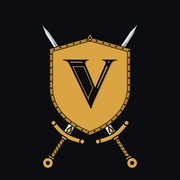
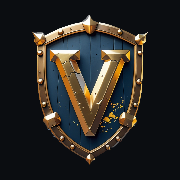
Brand: the painted shield crest replaces the SVG crest
The addon's icon is now Cliff's painted shield (addon #739, art/painted/icon/C2.png).
The site follows it:
- crest.webp (198 x 255) for the header mark and the Home hero, as an <img>
- favicon-32, apple-touch-icon and the SVG favicon from the same picture
- og-image and github-social-preview rebuilt: dusk landscape, crest, wordmark
- press download is now vanguard-crest.png (1024, transparent); the SVG is gone
- hero alt text, social image alt and the press link label updated in English
  and all ten languages

Verified: npm run check (build, encoding, 294 tests pass); Home at 1280x800 and 390x844 looked at.

diff --git a/src/assets/site.css b/src/assets/site.css
@@ -85,7 +85,7 @@ hr { border: 0; border-top: 1px solid var(--divider); margin: 2em 0; }
 .site-header::after { content: ""; position: absolute; left: 0; right: 0; bottom: -1px; height: 1px; background: linear-gradient(90deg, transparent, color-mix(in oklab, var(--accent) 70%, transparent) 30%, var(--accent) 50%, color-mix(in oklab, var(--accent) 70%, transparent) 70%, transparent); opacity: 0.7; pointer-events: none; }
 .header-inner { max-width: var(--shell-max); margin: 0 auto; min-height: var(--header-h); padding: 0 var(--sp-4); display: flex; align-items: center; gap: var(--sp-4); }
 .brand { display: inline-flex; align-items: center; gap: 10px; color: var(--text); text-decoration: none; font-weight: 600; font-size: 1.25rem; }
-.brand-mark { width: 22px; height: 32px; flex: none; }
+.brand-mark { width: 25px; height: 32px; flex: none; }
 .lang-menu + .nav-toggle { margin-left: 0; }
 /* The language button: a globe and the code, opening this page's languages under it. Under
    900px only; wider, the select at the sidebar's foot is always in view. */
@@ -503,7 +503,7 @@ table.stack { margin: 0 0 1em; }
 
 .hero-inner { position: relative; max-width: 900px; min-width: 0; }
 /* The crest above the title: sized by the viewport so the hero still opens on one screen. */
-.hero-crest { display: block; width: auto; height: clamp(64px, 9vh, 92px); margin: 0 auto 2px; filter: drop-shadow(0 6px 18px color-mix(in oklab, var(--bg) 70%, transparent)); }
+.hero-crest { display: block; width: auto; height: clamp(72px, 11vh, 112px); margin: 0 auto 2px; filter: drop-shadow(0 6px 18px color-mix(in oklab, var(--bg) 70%, transparent)); }
 .hero-kicker { margin: 0 0 6px; font-size: 0.85rem; letter-spacing: 0.3em; text-transform: uppercase; color: color-mix(in oklab, var(--accent) 70%, var(--text)); }
 .hero-title { margin: 0; font-weight: 600; font-size: clamp(2.8rem, 10vw, 5.5rem); line-height: 0.95; letter-spacing: 0.015em; color: var(--accent); text-shadow: 0 2px 30px color-mix(in oklab, var(--accent) 35%, transparent); }
 @supports ((-webkit-background-clip: text) or (background-clip: text)) {
@@ -520,7 +520,7 @@ table.stack { margin: 0 0 1em; }
 @media (max-width: 559px) {
   /* A shorter hero on a phone, so the shortcuts and the screenshot start on the first screen. */
   .hero { min-height: 0; padding: 18px 14px 30px; }
-  .hero-crest { height: 52px; }
+  .hero-crest { height: 60px; }
   .hero-kicker { font-size: 0.75rem; }
   .hero-orn { margin: 4px auto 6px; }
   .hero-tagline { font-size: 1.15rem; margin-bottom: 6px; }
